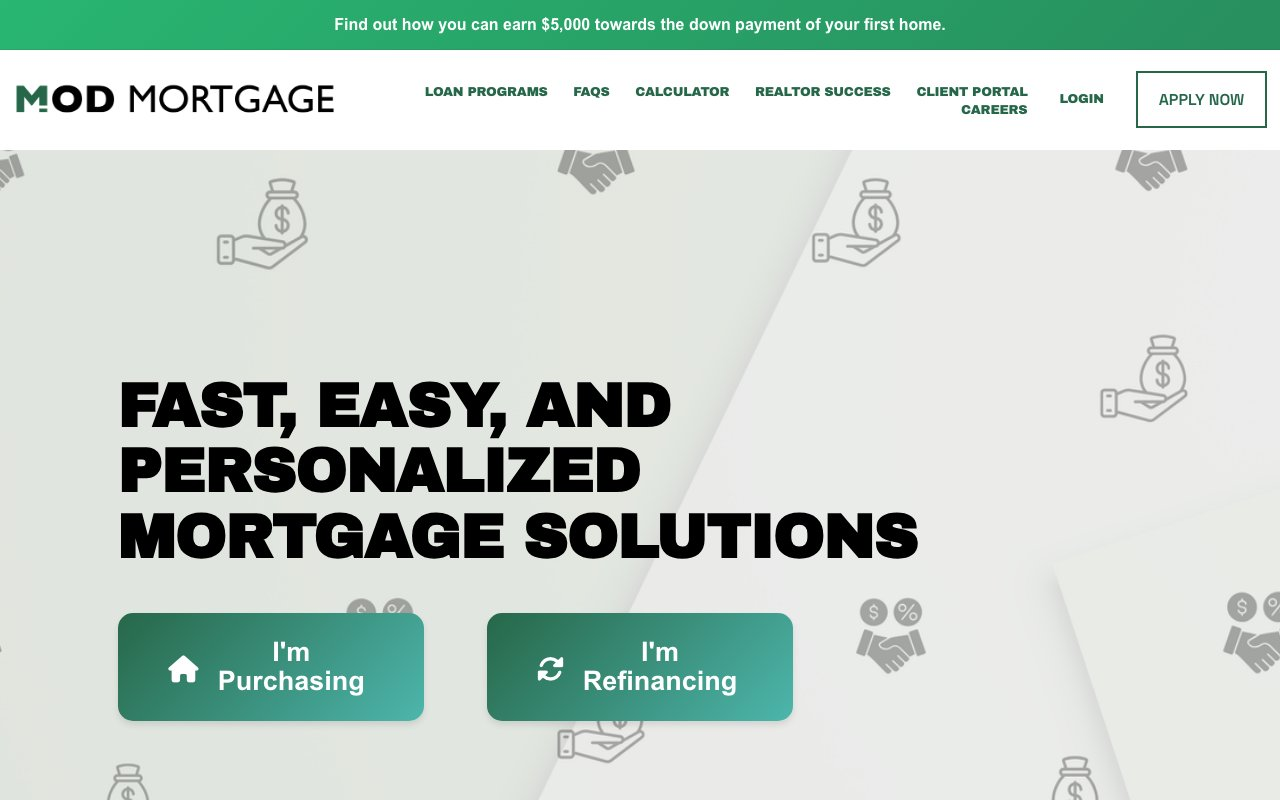
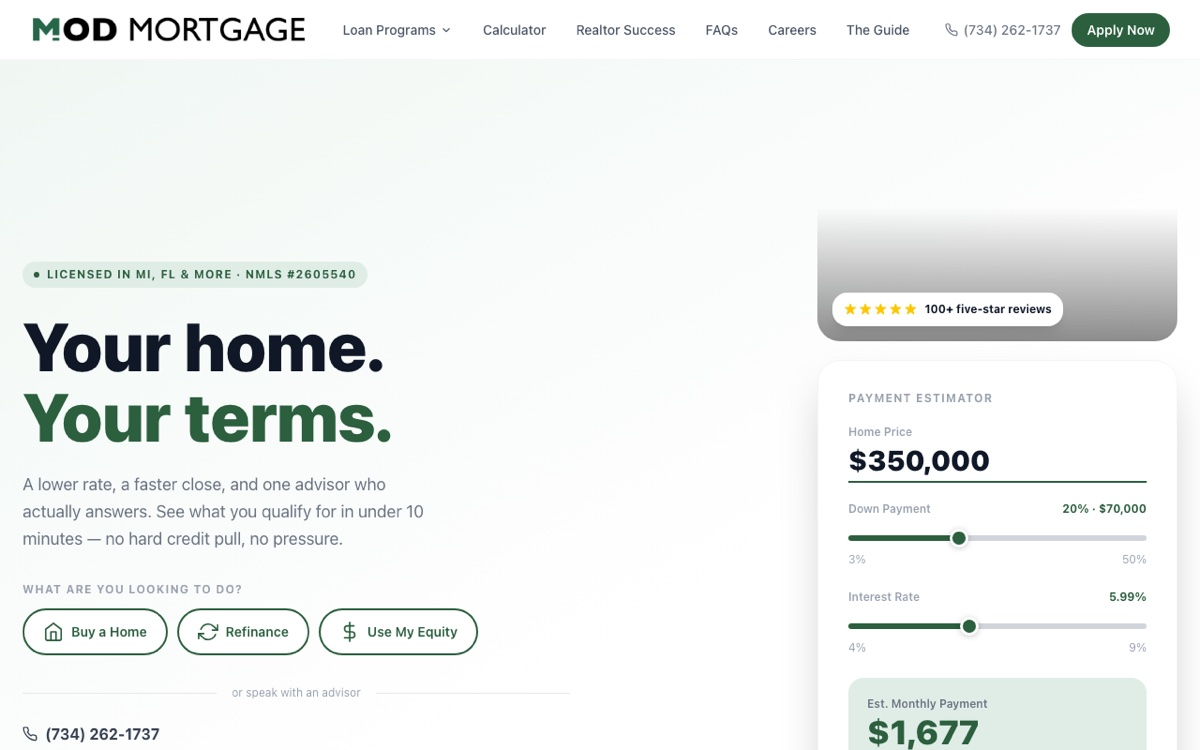
Portfolio: add Sal's Kitchen, refresh Mod Mortgage for redesigned site
- New live-client card for Sal's Kitchen (salscustomcatering.com) with screenshot
- Updated Mod Mortgage thumbnail + copy to match their redesigned site (cache-busted)
- Added Sal's Kitchen to portfolio ItemList structured data

diff --git a/portfolio/index.html b/portfolio/index.html
@@ -81,8 +81,9 @@
     "description": "Websites built for Michigan small businesses with real growth results.",
     "itemListElement": [
       {"@type": "ListItem","position": 1,"name": "Budget Flooring Center","url": "https://www.budgetflooringcenter.com","description": "Flooring retailer website with quote form and local SEO"},
-      {"@type": "ListItem","position": 2,"name": "Mod Mortgage Loans","url": "https://www.modmortgageloans.com","description": "Mortgage lending site with purchase and refinance flows"},
-      {"@type": "ListItem","position": 3,"name": "Boogeyman Wildlife Control","url": "https://www.boogeymanwildlifecontrol.com","description": "Wildlife removal service with inspection scheduling"}
+      {"@type": "ListItem","position": 2,"name": "Mod Mortgage Loans","url": "https://www.modmortgageloans.com","description": "Redesigned mortgage lending site with payment estimator and purchase and refinance flows"},
+      {"@type": "ListItem","position": 3,"name": "Boogeyman Wildlife Control","url": "https://www.boogeymanwildlifecontrol.com","description": "Wildlife removal service with inspection scheduling"},
+      {"@type": "ListItem","position": 4,"name": "Sal's Kitchen","url": "https://www.salscustomcatering.com","description": "Catering and private events website with menu showcase and event booking"}
     ]
   }
   ]
@@ -160,13 +161,13 @@
         <!-- ── REAL CLIENT: Mod Mortgage ── -->
         <div class="portfolio-item-lg reveal delay-2" data-category="live">
           <div class="portfolio-thumb" style="background:#0a0a12">
-            <img loading="lazy" class="portfolio-thumb-img" src="/images/portfolio/mortgage.webp" alt="Mod Mortgage Loans website screenshot" />
+            <img loading="lazy" class="portfolio-thumb-img" src="/images/portfolio/mortgage.webp?v=2" alt="Mod Mortgage Loans website screenshot" />
           </div>
           <div class="portfolio-info">
             <div class="live-badge">Live Client</div>
             <div class="portfolio-tag" style="margin-bottom:0.75rem;background:rgba(22,163,74,0.1);color:#4ADE80;border-color:rgba(22,163,74,0.2)">Finance</div>
             <h3>Mod Mortgage Loans</h3>
-            <p>Clean, conversion-focused mortgage site with purchase &amp; refinance flows, calculator, and NMLS compliance.</p>
+            <p>Freshly redesigned mortgage experience with an instant payment estimator, purchase &amp; refinance flows, and NMLS compliance.</p>
             <div class="portfolio-info-row">
               <div class="result-pill">Live &amp; Converting</div>
               <a href="https://www.modmortgageloans.com" target="_blank" rel="noopener" class="visit-link">Visit Site ↗</a>
@@ -187,6 +188,23 @@
             <div class="portfolio-info-row">
               <div class="result-pill">Live &amp; Active</div>
               <a href="https://www.boogeymanwildlifecontrol.com" target="_blank" rel="noopener" class="visit-link">Visit Site ↗</a>
+            </div>
+          </div>
+        </div>
+
+        <!-- ── REAL CLIENT: Sal's Kitchen ── -->
+        <div class="portfolio-item-lg reveal delay-1" data-category="live">
+          <div class="portfolio-thumb" style="background:#0a0a12">
+            <img loading="lazy" class="portfolio-thumb-img" src="/images/portfolio/sals-kitchen.webp" alt="Sal's Kitchen catering website screenshot" />
+          </div>
+          <div class="portfolio-info">
+            <div class="live-badge">Live Client</div>
+            <div class="portfolio-tag" style="margin-bottom:0.75rem;background:rgba(245,158,11,0.1);color:#FBBF24;border-color:rgba(245,158,11,0.2)">Restaurant &amp; Catering</div>
+            <h3>Sal's Kitchen</h3>
+            <p>Catering &amp; private events site for a Lansing favorite — full menu showcase, photo gallery, and event booking built to convert.</p>
+            <div class="portfolio-info-row">
+              <div class="result-pill">Live &amp; Booking</div>
+              <a href="https://www.salscustomcatering.com" target="_blank" rel="noopener" class="visit-link">Visit Site ↗</a>
             </div>
           </div>
         </div>
